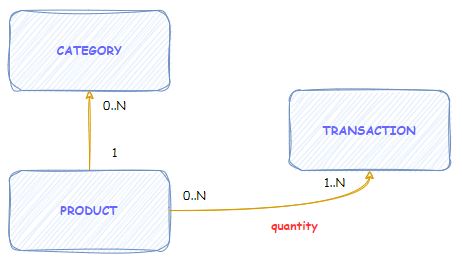
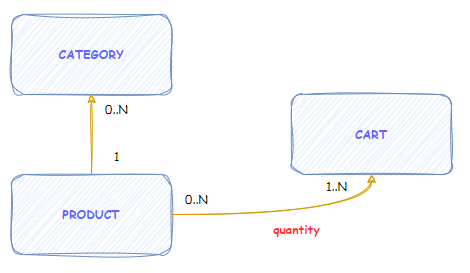
Replace transaction by cart

diff --git a/src/main/java/com/lombardinternational/cartmanager/CartManagerApplication.java b/src/main/java/com/lombardinternational/cartmanager/CartManagerApplication.java
@@ -1,13 +1,13 @@
-package com.lombardinternational.transactionmanager;
+package com.lombardinternational.cartmanager;
 
 import org.springframework.boot.SpringApplication;
 import org.springframework.boot.autoconfigure.SpringBootApplication;
 
 @SpringBootApplication
-public class TransactionManagerApplication {
+public class CartManagerApplication {
 
 	public static void main(String[] args) {
-		SpringApplication.run(TransactionManagerApplication.class, args);
+		SpringApplication.run(CartManagerApplication.class, args);
 	}
 
 }

diff --git a/src/main/java/com/lombardinternational/cartmanager/adapter/api/web/controller/HelloWorldController.java b/src/main/java/com/lombardinternational/cartmanager/adapter/api/web/controller/HelloWorldController.java
@@ -1,4 +1,4 @@
-package com.lombardinternational.transactionmanager.adapter.api.web.controller;
+package com.lombardinternational.cartmanager.adapter.api.web.controller;
 
 
 import org.springframework.http.ResponseEntity;
